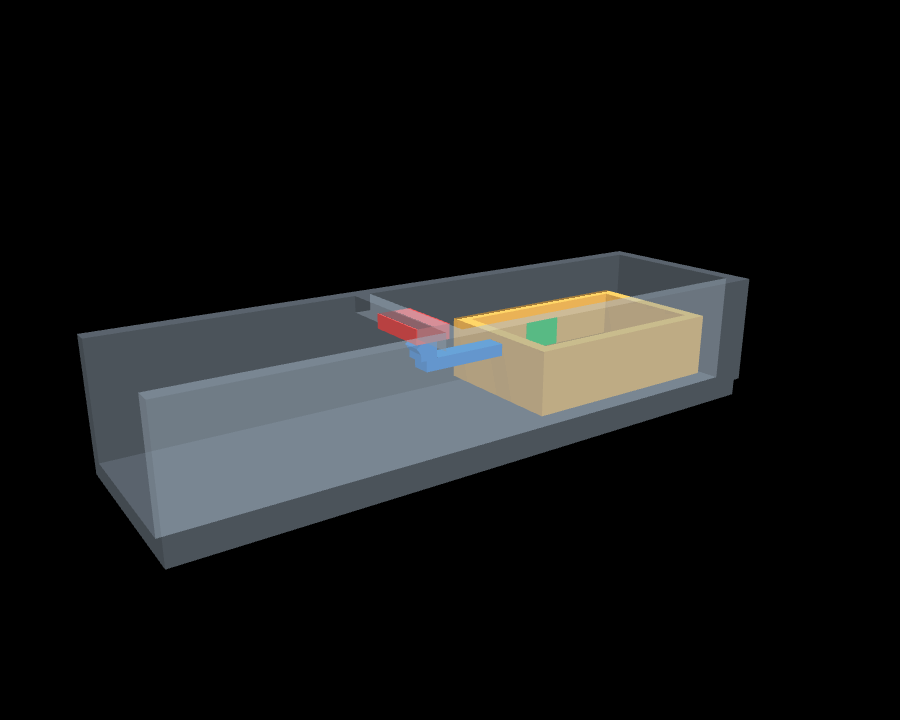
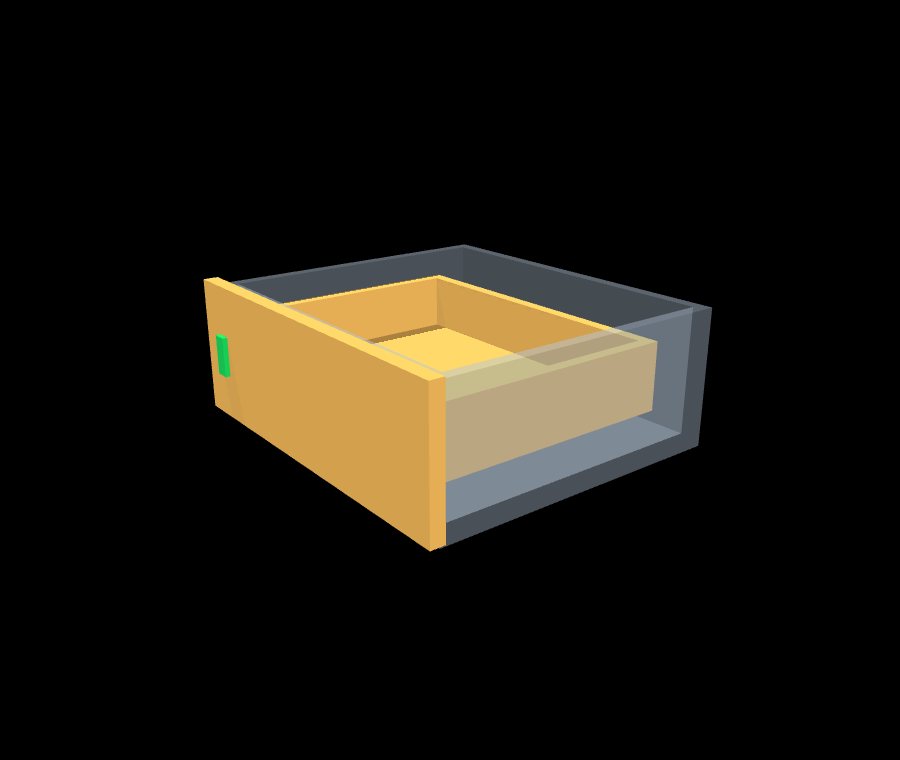
Phase A / A7 (§14 T5v): bottom-clip reviewer visualization pack
viz_pack.latched_drawer_pack rewritten for the bottom-clip sub-solids:
- section_latched_drawer.png — TWO section planes (a furniture maker's drawing):
  y=0 shows the front panel LANDING on the face frame (M1, gap 0 = closed stop)
  + the tray riding the T-rail (M2); y=15 shows the clip barb snapped behind the
  floor bump (M3 catch, W_out=30.4 N) hanging in the tray/floor gap (zero
  protrusion). All from the compiled solids, clearances/force annotated.
- exploded_latched_drawer.png — drawer (body+clip) pulled +X from cabinet
  (body+bump).
- portrait_latched_drawer.png — the closed drawer in the translucent cabinet
  (latch correctly hidden).
- (A6 rig) t2_ld_mesh.mp4 cutaway + t2_ld_mesh_zoom.mp4 + engaged_closeup_ld.png
  + ir_latched_drawer.svg.

Free/local (no LLM/API). Lite gate + m15 frontier column stay HELD.

Changed region(s): [[0.0622, 0.3056, 0.84, 0.7944]]

diff --git a/m24_design_closure/viz_pack.py b/m24_design_closure/viz_pack.py
@@ -28,15 +28,15 @@ MM = 1000.0
 def _load_meshes(task):
     """the compiled per-body meshes exported by the T5 rig (metres, world frame)."""
     import trimesh
-    mdir = ROOT / "m24_design_closure" / "out" / ("mesh_assets" if task == "screw_lift" else "latch_mesh_assets")
+    mdir = ROOT / "m24_design_closure" / "out" / ("mesh_assets" if task == "screw_lift" else "ld_mesh_assets")
     names = {"screw_lift": ["base", "screw", "nut", "crank"],
-             "latched_drawer": ["cabinet_body", "receiver", "drawer_body", "barb"]}[task]
+             "latched_drawer": ["cabinet_body", "bump", "drawer_body", "clip"]}[task]
     return {n: trimesh.load(mdir / f"{n}.stl", force="mesh") for n in names
             if (mdir / f"{n}.stl").exists()}
 
 
 COLORS = {"base": "#9aa4b0", "screw": "#e8a044", "nut": "#5fb87f", "crank": "#d05a5a",
-          "cabinet_body": "#9aa4b0", "receiver": "#d05a5a", "drawer_body": "#e0b050", "barb": "#4a90d0"}
+          "cabinet_body": "#9aa4b0", "bump": "#d05a5a", "drawer_body": "#e0b050", "clip": "#4a90d0"}
 
 
 def _section(ax, meshes, origin, normal, callouts, title, xlabel, ylabel, view_axes):
@@ -104,35 +104,40 @@ def screw_lift_pack(out: Path):
 
 
 def latched_drawer_pack(out: Path):
+    """bottom-clip design: TWO section planes — y=0 (panel-on-face landing + tray-on-rail) and y=15
+    (clip-over-bump catch) — the drawing a furniture maker recognizes, from the compiled solids."""
     meshes = _load_meshes("latched_drawer")
-    # SECTION at XZ plane (y=0): cuts the drawer tray, the cantilever+barb, and the receiver ledge —
-    # the barb-under-ledge engagement, from the compiled solids.
-    fig, ax = plt.subplots(figsize=(8.2, 4.6))
-    callouts = [
-        (35.5, 22, "barb tucks UNDER receiver ledge\n→ +0.6 mm interlock overlap (engages)"),
-        (10, 22, "cantilever arm (carved snap;\nforces Bayer-sourced, D3)"),
-    ]
-    _section(ax, meshes, (0, 0, 0), (0, 1, 0), callouts,
-             "latched_drawer — XZ section (y=0): the barb-under-receiver interlock (closed)",
+    fig, axs = plt.subplots(1, 2, figsize=(13.5, 4.8))
+    _section(axs[0], meshes, (0, 0, 0), (0, 1, 0),
+             [(30, 22, "front panel LANDS on\nface frame (M1, gap 0 = closed stop)"),
+              (-2, 3.2, "tray rides the T-rail (M2)")],
+             "latched_drawer — y=0 section: panel-on-face landing + tray-on-rail",
              "x (mm)", "z (mm)", view_axes=(0, 2))
-    ax.set_xlim(-30, 55); ax.set_ylim(-6, 30)
+    axs[0].set_xlim(-38, 40); axs[0].set_ylim(-5, 30)
+    _section(axs[1], meshes, (0, 15, 0), (0, 1, 0),
+             [(18, 5.5, "clip barb snapped BEHIND\nthe floor bump (M3 catch)\nW_out=30.4 N inverse-Bayer"),
+              (-2, 3.2, "clip hangs in the tray↔floor gap\n(zero protrusion)")],
+             "latched_drawer — y=15 section: the bottom clip catches the floor bump (closed)",
+             "x (mm)", "z (mm)", view_axes=(0, 2))
+    axs[1].set_xlim(-38, 40); axs[1].set_ylim(-5, 30)
     fig.tight_layout(); fig.savefig(out / "section_latched_drawer.png", dpi=140); plt.close(fig)
 
-    # EXPLODED — the drawer (tray+barb) pulled out +X from the cabinet (body+receiver), XZ silhouettes.
-    fig, ax = plt.subplots(figsize=(8.6, 4.8))
-    offx = {"cabinet_body": 0, "receiver": 0, "drawer_body": 55, "barb": 55}
-    for name in ["cabinet_body", "receiver", "drawer_body", "barb"]:
+    # EXPLODED — the drawer (body+clip) pulled +X from the cabinet (body+bump), y=8 silhouettes.
+    fig, ax = plt.subplots(figsize=(9.0, 4.6))
+    offx = {"cabinet_body": 0, "bump": 0, "drawer_body": 70, "clip": 70}
+    for name in ["cabinet_body", "bump", "drawer_body", "clip"]:
         m = meshes.get(name)
         if m is None:
             continue
-        sec = m.section(plane_origin=(0, 0, 0), plane_normal=(0, 1, 0))
-        if sec is None:
-            continue
-        for entity in sec.discrete:
-            pts = np.array(entity) * MM
-            ax.fill(pts[:, 0] + offx[name], pts[:, 2], color=COLORS[name], alpha=0.6,
-                    edgecolor=COLORS[name], lw=1.1, label=name)
-    ax.annotate("pull-out +X", xy=(120, 8), xytext=(70, 8),
+        for yc in (0.0, 15.0):
+            sec = m.section(plane_origin=(0, yc / MM, 0), plane_normal=(0, 1, 0))
+            if sec is None:
+                continue
+            for entity in sec.discrete:
+                pts = np.array(entity) * MM
+                ax.fill(pts[:, 0] + offx[name], pts[:, 2], color=COLORS[name], alpha=0.55,
+                        edgecolor=COLORS[name], lw=1.0, label=name)
+    ax.annotate("pull-out +X", xy=(120, 10), xytext=(60, 10),
                 arrowprops=dict(arrowstyle="->", color="#555", lw=1.4), fontsize=8, va="center", color="#555")
     ax.set_aspect("equal"); ax.set_title("latched_drawer — exploded (drawer pulled +X from cabinet)", fontsize=9)
     ax.set_xlabel("x (mm, exploded)"); ax.set_ylabel("z (mm)"); ax.grid(alpha=0.2)